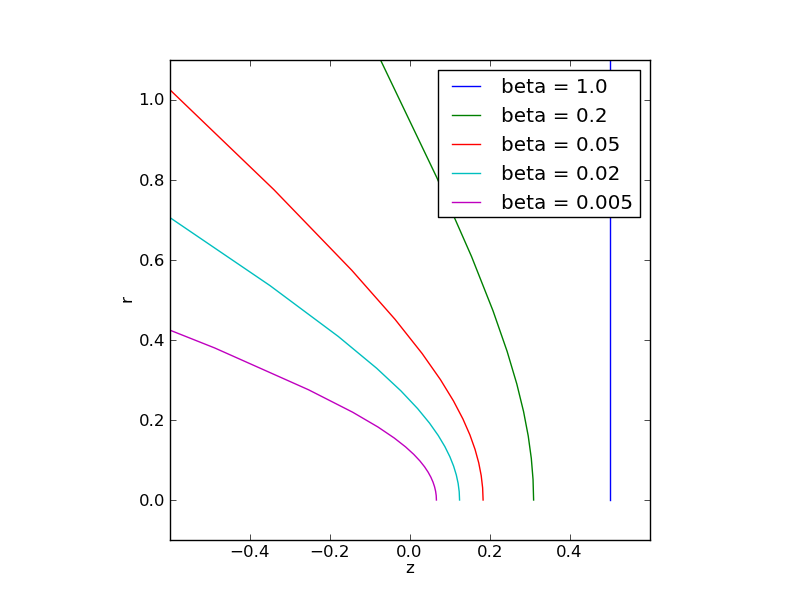
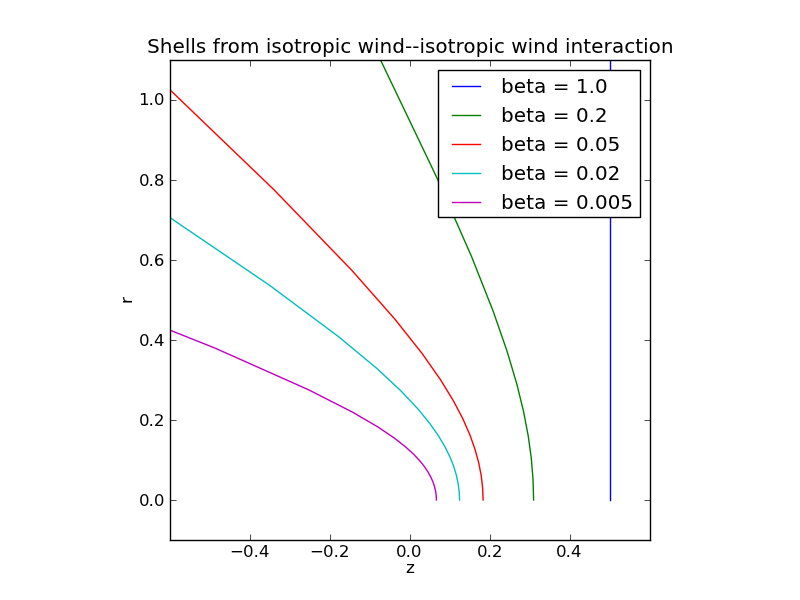
Yet more tests
* shell-test.py: Add figure showing the case with a proplyd inner
  wind, for the same values of betas as before
* shell-test-proplyd.png: This is the new figure

Changed region(s): [[0.1875, 0.06, 0.8438, 0.09]]

diff --git a/shell-test.py b/shell-test.py
@@ -5,9 +5,29 @@ import matplotlib.pyplot as plt
 N = 20                         # number of angles
 theta = np.linspace(0.0, np.pi, N)
 
-# Test isotropic shells
-for beta in 1.0, 0.2, 0.05, 0.02, 0.005:
-    shell = Shell(beta=beta)
+# Test isotropic and proplyd shells - separate figures
+for innertype in "isotropic", "proplyd":
+    print "**** {} ****".format(innertype)
+    print
+    for beta in 1.0, 0.2, 0.05, 0.02, 0.005:
+        shell = Shell(beta=beta, innertype=innertype)
+        R = shell.radius(theta)
+        print R
+        # set all non-positive values to NaN to prevent plotting
+        R[R <= 0.0] = np.nan
+        x, y = R*np.cos(theta), R*np.sin(theta)
+        plt.plot(x, y, label="beta = {}".format(beta))
+
+    plt.axis([-0.6, 0.6, -0.1, 1.1])
+    plt.legend()
+    plt.xlabel("z")
+    plt.ylabel("r")
+    plt.title("Shells from {} wind--isotropic wind interaction".format(innertype))
+    plt.axes().set_aspect("equal")
+    plt.savefig("shell-test-{}.png".format(innertype))
+    plt.clf()
+    print
+
     R = shell.radius(theta)
     print R
     # set all non-positive values to NaN to prevent plotting

diff --git a/equation6.py b/equation6.py
@@ -149,7 +149,7 @@ class BaseShell(object):
         Should work with scalar or vector argument theta
         """
         def _radius(theta):
-            """Helper function"""
+            """Helper function to find the shell radius for a single angle, theta"""
             if theta == 0.0:
                 # special treatment for the axis
                 return self.R0
